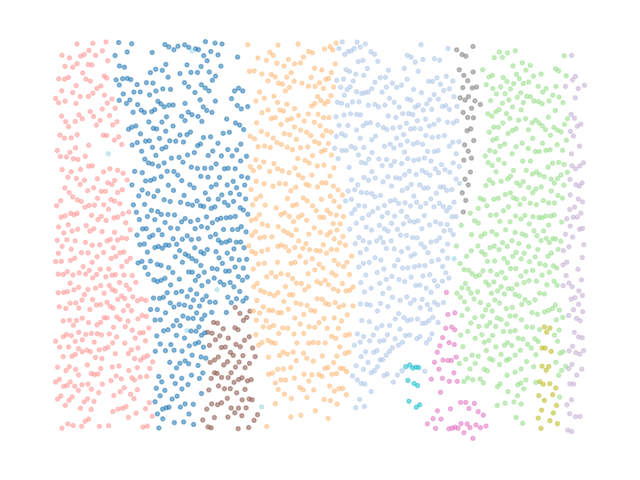
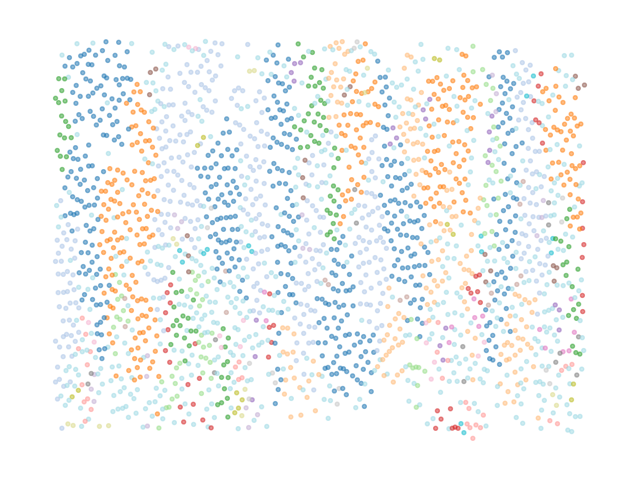
.

diff --git a/scrips/manual_clustering.py b/scrips/manual_clustering.py
@@ -110,7 +110,7 @@ for item in layer_0_results_d:
 
 
 #Choose threshold percentile
-pct_d = 95
+pct_d = 15
 
 threshold_distance = np.percentile(scores_0_d, pct_d)
 
@@ -133,7 +133,7 @@ for item in layer_0_results_a:
     scores_0_a.append(item[2])
 
 #Choose a threshold
-pct_a = 95
+pct_a = 15
 
 threshold_angle    = np.percentile(scores_0_a, pct_a)
 
